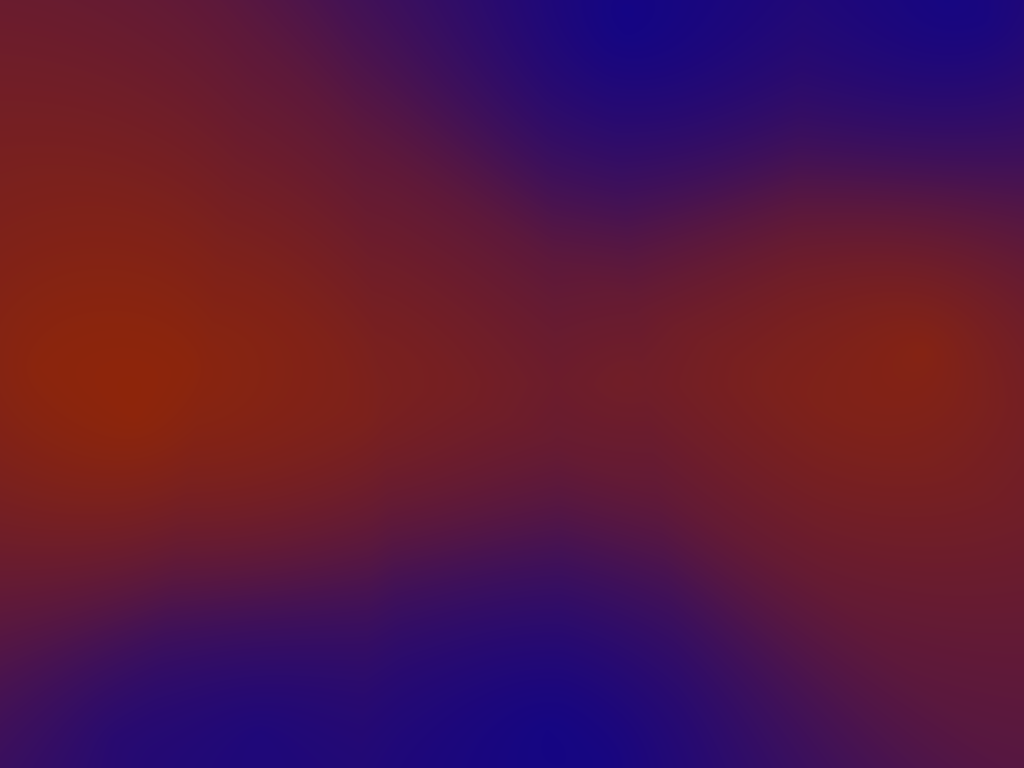
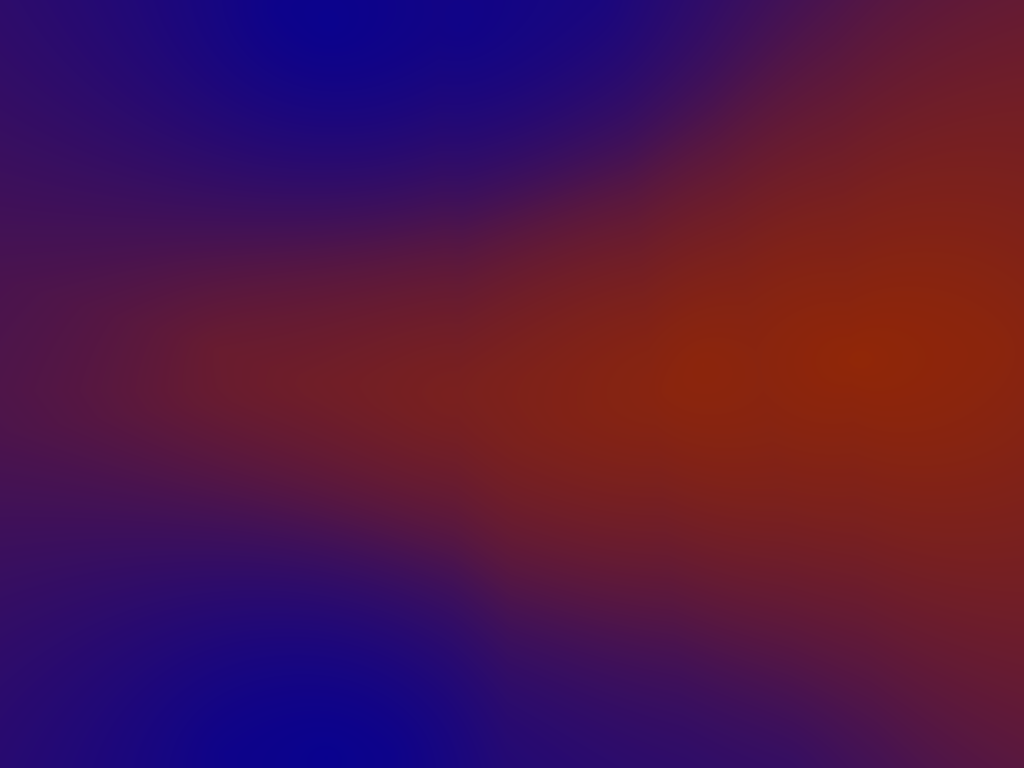
Перлин в отдельную либу

diff --git a/PerlinWrapper/Perlin.cs b/PerlinWrapper/Perlin.cs
@@ -1,0 +1,59 @@
+using System;
+using log4net;
+using SharpNoise;
+using SharpNoise.Builders;
+using SharpNoise.Modules;
+using SharpNoise.Utilities.Imaging;
+
+namespace PerlinWrapper
+{
+    public static class PerlinWrap
+    {
+        private static readonly ILog Log = LogManager.GetLogger(typeof(PerlinWrap));
+        public static double[,] GenerateAltitudeMap(int width, int height)
+        {
+            Log.Info("Generating noise map.");
+            var noiseSource = new Perlin
+            {
+                Seed = new Random().Next()
+            };
+
+            var noiseMap = new NoiseMap();
+            var noiseMapBuilder = new PlaneNoiseMapBuilder
+            {
+                DestNoiseMap = noiseMap,
+                SourceModule = noiseSource
+            };
+
+            noiseMapBuilder.SetDestSize(width, height);
+
+            noiseMapBuilder.SetBounds(-3, 3, -2, 2);
+
+            noiseMapBuilder.Build();
+
+            var image = new Image();
+            var renderer = new ImageRenderer
+            {
+                SourceNoiseMap = noiseMap,
+                DestinationImage = image
+            };
+
+            renderer.BuildGrayscaleGradient();
+            renderer.Render();
+            Log.Info("Noise map has been generated, converting it to our format");
+            var res = new double[width,height];
+            for (int x = 0; x < width; x++)
+            for (int y = 0; y < height; y++)
+            {
+                res[x, y] = GreyscaleColorToDouble(image[x, y]);
+            }
+            Log.Info("Map has been generated");
+            return res;
+        }
+
+        private static double GreyscaleColorToDouble(Color c)
+        {
+            return (double)c.Red / 255;
+        }
+    }
+}

diff --git a/GlobalMapGenerator/Geology/MapGenerator.cs b/GlobalMapGenerator/Geology/MapGenerator.cs
@@ -1,5 +1,6 @@
 using System;
 using log4net;
+using PerlinWrapper;
 using SharpNoise;
 using SharpNoise.Builders;
 using SharpNoise.Modules;
@@ -10,40 +11,12 @@ namespace GlobalMap
     public static class MapGenerator
     {
         private static readonly ILog Log = LogManager.GetLogger(typeof(MapGenerator));
-        
+
         public static Map GenerateAltitudeMap(int width, int height, AltitudeGenerationSettings settings)
         {
             Log.Info($"Start generating a map with width '{width}', height '{height}' and altitude settings '{settings.GetType()}'");
-            Log.Info("Generating noise map.");
-            var noiseSource = new Perlin
-            {
-                Seed = new Random().Next()
-            };
-
-            var noiseMap = new NoiseMap();
-            var noiseMapBuilder = new PlaneNoiseMapBuilder
-            {
-                DestNoiseMap = noiseMap,
-                SourceModule = noiseSource
-            };
-
-            noiseMapBuilder.SetDestSize(width, height);
-
-            noiseMapBuilder.SetBounds(-3, 3, -2, 2);
-
-            noiseMapBuilder.Build();
-
-            var image = new Image();
-            var renderer = new ImageRenderer
-            {
-                SourceNoiseMap = noiseMap,
-                DestinationImage = image
-            };
-            
-            renderer.BuildGrayscaleGradient();
-            renderer.Render();
-            Log.Info("Noise map has been generated, converting it to our format");
-            var res = new Map(image, settings);
+            var altitudes = PerlinWrap.GenerateAltitudeMap(width, height);
+            var res = new Map(altitudes, settings);
             Log.Info("Map has been generated");
             return res;
         }

diff --git a/GlobalMapGenerator/Map.cs b/GlobalMapGenerator/Map.cs
@@ -35,18 +35,12 @@ namespace GlobalMap
 
         private ILog log = LogManager.GetLogger(typeof(Map));
 
-        public Map(SharpNoiseImage imgGreyscale,AltitudeGenerationSettings altitudeColorSettings)
+        public Map(double[,] altitudes,AltitudeGenerationSettings altitudeColorSettings)
         {
             AltitudeGenerationSettings = altitudeColorSettings;
-            Width = imgGreyscale.Width;
-            Height = imgGreyscale.Height;
-            Altitudes = new double[Width, Height];
-            for (int x = 0; x < Width; x++)
-            for (int y = 0; y < Height; y++)
-            {
-                Altitudes[x, y] = GreyscaleColorToDouble(imgGreyscale[x, y]);
-            }
-
+            Altitudes = altitudes;
+            Width = Altitudes.GetLength(0);
+            Height = Altitudes.GetLength(1);
             this.ClassifyWaterAreas();
         }
 
@@ -115,11 +109,6 @@ namespace GlobalMap
             }
 
             return layers[layers.Length - 1].Value;
-        }
-
-        private double GreyscaleColorToDouble(SharpNoiseColor c)
-        {
-            return (double)c.Red / 255;
         }
     }
 
